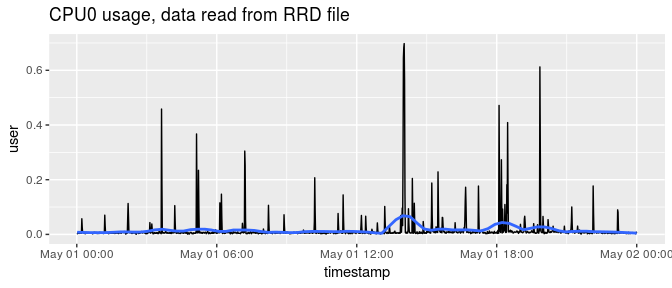
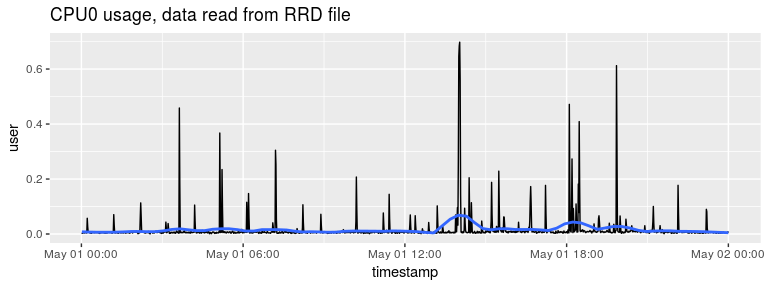
version 0.2.2

diff --git a/src/rrd.c b/src/rrd.c
@@ -15,6 +15,23 @@ typedef struct _rra_info {
 } rra_info; 
 
 
+/* SMR: guard against unitinialized memory */
+rra_info* alloc_rra_info(void) {
+  rra_info* new_rra_info;
+
+  new_rra_info = malloc(sizeof(rra_info));
+
+  if (new_rra_info != NULL) {
+    new_rra_info->next = NULL;
+    new_rra_info->cf[0] = '\0';
+    new_rra_info->rows = 0L;
+    new_rra_info->pdp_per_row = 0L;
+
+  }
+  return(new_rra_info);
+}
+
+
 void free_rra_info(rra_info* rraInfoOut) {
   while (rraInfoOut) {
     rra_info* tmp = rraInfoOut;
@@ -29,10 +46,11 @@ void print_rra_info(rra_info* rraInfoIn, int count, long unsigned int step) {
   long unsigned int pdp_per_row;
   int i;
   long unsigned int rra_step;
+  rra_info* rra_info_tmp;
   
-  Rprintf("A RRD file with %d RRA arrays and step size %ld\n", count, step);
+  Rprintf("An RRD file with %d RRA arrays and step size %ld\n", count, step);
   
-  rra_info* rra_info_tmp = rraInfoIn;
+  rra_info_tmp = rraInfoIn;
   i = 1;
   while (rra_info_tmp) {
     pdp_per_row = rra_info_tmp->pdp_per_row;
@@ -73,7 +91,7 @@ rra_info* get_rra_info(rrd_info_t* rrdInfoIn, int *rraCntOut, unsigned long *ste
   rra_info* rraInfoOut;
   rra_info* rra_info_tmp;
   
-  rraInfoOut = malloc(sizeof(rra_info)); 
+  rraInfoOut = alloc_rra_info();
   if (rraInfoOut == NULL) {
     Rprintf("error allocating memory\n");
     return NULL;
@@ -91,7 +109,7 @@ rra_info* get_rra_info(rrd_info_t* rrdInfoIn, int *rraCntOut, unsigned long *ste
     
     if (!strcmp(rrdInfoIn->key, cfKey)){
       if (rraCnt > 0) {
-        rra_info_tmp->next = malloc(sizeof(rra_info));
+        rra_info_tmp->next = alloc_rra_info();
         if (rra_info_tmp->next == NULL) {
           free_rra_info(rraInfoOut);
           return NULL;

diff --git a/README.md b/README.md
@@ -1,7 +1,7 @@
 
 <!-- README.md is generated from README.Rmd. Please edit that file -->
 
-# rrd
+# rrd <img src='man/figures/rrd-logo.png' align="right" height="139" />
 
 [![Build
 Status](https://travis-ci.org/andrie/rrd.svg?branch=master)](https://travis-ci.org/andrie/rrd)
@@ -11,42 +11,35 @@ status](https://www.r-pkg.org/badges/version/rrd)](https://cran.r-project.org/pa
 [![](http://www.r-pkg.org/badges/version/rrd)](http://www.r-pkg.org/pkg/rrd)
 [![CRAN RStudio mirror
 downloads](http://cranlogs.r-pkg.org/badges/rrd)](http://www.r-pkg.org/pkg/rrd)
-[![Coverage
-Status](https://img.shields.io/codecov/c/github/andrie/rrd/master.svg)](https://codecov.io/github/andrie/rrd?branch=master)
+[![Codecov test
+coverage](https://codecov.io/gh/andrie/rrd/branch/master/graph/badge.svg)](https://codecov.io/gh/andrie/rrd?branch=master)
 
 The `rrd` package allows you to read data from an
-[RRD](http://oss.oetiker.ch/rrdtool/) database.
-
-Internally it uses
-[librrd](http://oss.oetiker.ch/rrdtool/doc/librrd.en.html) to import the
-binary data directly into R without exporting it to an intermediate
-format first.
-
-For an introduction to RRD database, see
-<https://oss.oetiker.ch/rrdtool/tut/rrd-beginners.en.html>
+[RRD](http://oss.oetiker.ch/rrdtool/) Round Robin Database.
 
 ## Installation
 
-### Pre-requisites
+### System requirements
 
 In order to build the package from source you need
 [librrd](http://oss.oetiker.ch/rrdtool/doc/librrd.en.html). Installing
 [RRDtool](http://oss.oetiker.ch/rrdtool/) from your package manager will
-usually also install the library.
+usually also install the
+library.
 
-In ubuntu:
+| Platform        | Installation                 | Reference                                               |
+| --------------- | ---------------------------- | ------------------------------------------------------- |
+| Debian / Ubuntu | `apt-get install librrd-dev` |                                                         |
+| RHEL / CentOS   | `yum install rrdtool-devel`  |                                                         |
+| Fedora          | `dnf install rrdtool-devel`  | <https://apps.fedoraproject.org/packages/rrdtool-devel> |
+| Solaris / CSW   | Install `rrdtool`            | <https://www.opencsw.org/packages/rrdtool/>             |
+| OSX             | `brew install rrdtool`       |                                                         |
+| Windows         | Not available                |                                                         |
 
-``` sh
-sudo apt-get install rrdtool librrd-dev
-```
+Note: on OSX you may have to update `xcode`, using `xcode-select
+--install`.
 
-In RHEL / CentOS:
-
-``` sh
-sudo yum install rrdtool rrdtool-devel
-```
-
-### Installing
+### Package installation
 
 You can install the stable version of the package from CRAN:
 
@@ -57,23 +50,37 @@ install.packages("rrd")
 And the development version from [GitHub](https://github.com/):
 
 ``` r
-# install.packages("devtools")
-devtools::install_github("andrie/rrd")
+# install.packages("remotes")
+remotes::install_github("andrie/rrd")
 ```
+
+## About RRD and RRDtool <img src='man/figures/rrdtool-logo.png' align="right" height="70" />
+
+The `rrd` package is a wrapper around `RRDtool`. Internally it uses
+[librrd](http://oss.oetiker.ch/rrdtool/doc/librrd.en.html) to import the
+binary data directly into R without exporting it to an intermediate
+format first.
+
+For an introduction to RRD database, see
+<https://oss.oetiker.ch/rrdtool/tut/rrd-beginners.en.html>
 
 ## Example
 
-In R:
+The package contains some example RRD files that originated in an
+instance of RStudio Connect. In this example, you analyse CPU data in
+the file `cpu-0.rrd`.
+
+Load the package and assign the location of the `cpu-0.rrd` file to a
+variable:
 
 ``` r
 library(rrd)
+rrd_cpu_0 <- system.file("extdata/cpu-0.rrd", package = "rrd")
 ```
 
 To describe the contents of an RRD file, use `describe_rrd()`:
 
 ``` r
-rrd_cpu_0 <- system.file("extdata/cpu-0.rrd", package = "rrd")
-
 describe_rrd(rrd_cpu_0)
 #> A RRD file with 10 RRA arrays and step size 60
 #> [1] AVERAGE_60 (43200 rows)
@@ -120,7 +127,7 @@ names(cpu)
 cpu[[1]]
 #> # A tibble: 43,199 x 9
 #>    timestamp              user     sys  nice  idle  wait   irq softirq
-#>  * <dttm>                <dbl>   <dbl> <dbl> <dbl> <dbl> <dbl>   <dbl>
+#>    <dttm>                <dbl>   <dbl> <dbl> <dbl> <dbl> <dbl>   <dbl>
 #>  1 2018-04-02 12:24:00 0.0104  0.00811     0 0.981     0     0       0
 #>  2 2018-04-02 12:25:00 0.0126  0.00630     0 0.979     0     0       0
 #>  3 2018-04-02 12:26:00 0.0159  0.00808     0 0.976     0     0       0
@@ -131,7 +138,7 @@ cpu[[1]]
 #>  8 2018-04-02 12:31:00 0.0193  0.00767     0 0.971     0     0       0
 #>  9 2018-04-02 12:32:00 0.0300  0.0274      0 0.943     0     0       0
 #> 10 2018-04-02 12:33:00 0.0162  0.00617     0 0.978     0     0       0
-#> # ... with 43,189 more rows, and 1 more variable: stolen <dbl>
+#> # … with 43,189 more rows, and 1 more variable: stolen <dbl>
 
 tail(cpu$AVERAGE60$sys)
 #> [1] 0.0014390667 0.0020080000 0.0005689333 0.0000000000 0.0014390667
@@ -154,32 +161,37 @@ avg_60 <- read_rra(rrd_cpu_0, cf = "AVERAGE", step = 60, n_steps = 24 * 60,
 
 avg_60
 #> # A tibble: 1,440 x 9
-#>    timestamp              user      sys  nice  idle     wait   irq softirq
-#>  * <dttm>                <dbl>    <dbl> <dbl> <dbl>    <dbl> <dbl>   <dbl>
-#>  1 2018-05-01 00:01:00 0.00458 0.00201      0 0.992 0            0       0
-#>  2 2018-05-01 00:02:00 0.00258 0.000570     0 0.996 0            0       0
-#>  3 2018-05-01 00:03:00 0.00633 0.00144      0 0.992 0            0       0
-#>  4 2018-05-01 00:04:00 0.00515 0.00201      0 0.991 0            0       0
-#>  5 2018-05-01 00:05:00 0.00402 0.000569     0 0.995 0            0       0
-#>  6 2018-05-01 00:06:00 0.00689 0.00144      0 0.992 0            0       0
-#>  7 2018-05-01 00:07:00 0.00371 0.00201      0 0.993 0.00144      0       0
-#>  8 2018-05-01 00:08:00 0.00488 0.00201      0 0.993 0.000569     0       0
-#>  9 2018-05-01 00:09:00 0.00748 0.000568     0 0.992 0            0       0
-#> 10 2018-05-01 00:10:00 0.00516 0            0 0.995 0            0       0
-#> # ... with 1,430 more rows, and 1 more variable: stolen <dbl>
+#>    timestamp              user     sys  nice  idle    wait   irq softirq
+#>    <dttm>                <dbl>   <dbl> <dbl> <dbl>   <dbl> <dbl>   <dbl>
+#>  1 2018-05-01 00:01:00 0.00458 2.01e-3     0 0.992 0.          0       0
+#>  2 2018-05-01 00:02:00 0.00258 5.70e-4     0 0.996 0.          0       0
+#>  3 2018-05-01 00:03:00 0.00633 1.44e-3     0 0.992 0.          0       0
+#>  4 2018-05-01 00:04:00 0.00515 2.01e-3     0 0.991 0.          0       0
+#>  5 2018-05-01 00:05:00 0.00402 5.69e-4     0 0.995 0.          0       0
+#>  6 2018-05-01 00:06:00 0.00689 1.44e-3     0 0.992 0.          0       0
+#>  7 2018-05-01 00:07:00 0.00371 2.01e-3     0 0.993 1.44e-3     0       0
+#>  8 2018-05-01 00:08:00 0.00488 2.01e-3     0 0.993 5.69e-4     0       0
+#>  9 2018-05-01 00:09:00 0.00748 5.68e-4     0 0.992 0.          0       0
+#> 10 2018-05-01 00:10:00 0.00516 0.          0 0.995 0.          0       0
+#> # … with 1,430 more rows, and 1 more variable: stolen <dbl>
 ```
 
 And you can easily plot using your favourite packages:
 
 ``` r
 library(ggplot2)
+#> Registered S3 methods overwritten by 'ggplot2':
+#>   method         from 
+#>   [.quosures     rlang
+#>   c.quosures     rlang
+#>   print.quosures rlang
 ggplot(avg_60, aes(x = timestamp, y = user)) + 
   geom_line() +
   stat_smooth(method = "loess", span = 0.125, se = FALSE) +
   ggtitle("CPU0 usage, data read from RRD file")
 ```
 
-<img src="man/figures/README-unnamed-chunk-1-1.png" width="100%" />
+<img src="man/figures/README-unnamed-chunk-1-1.png" width="90%" />
 
 ## More information
 
